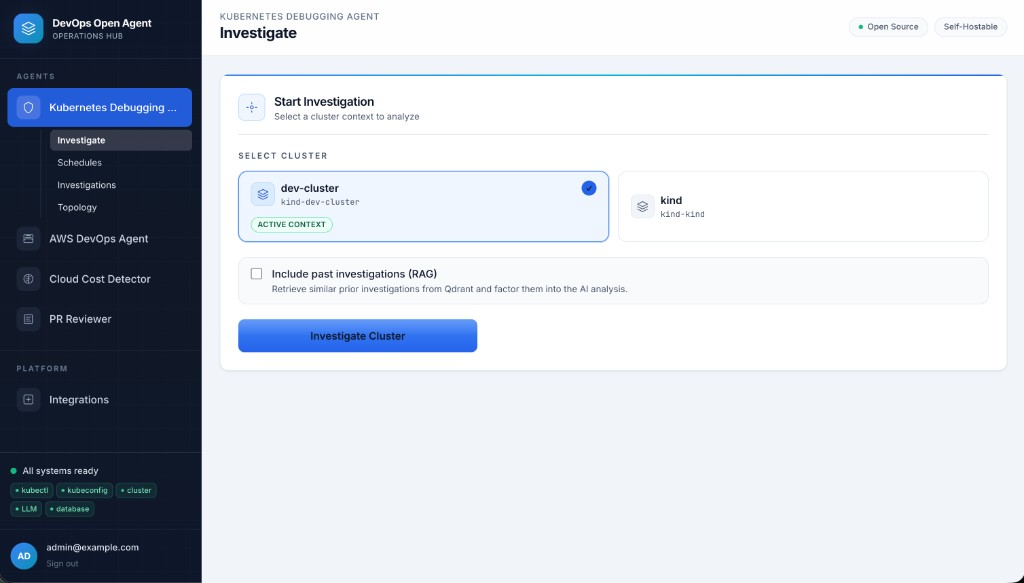
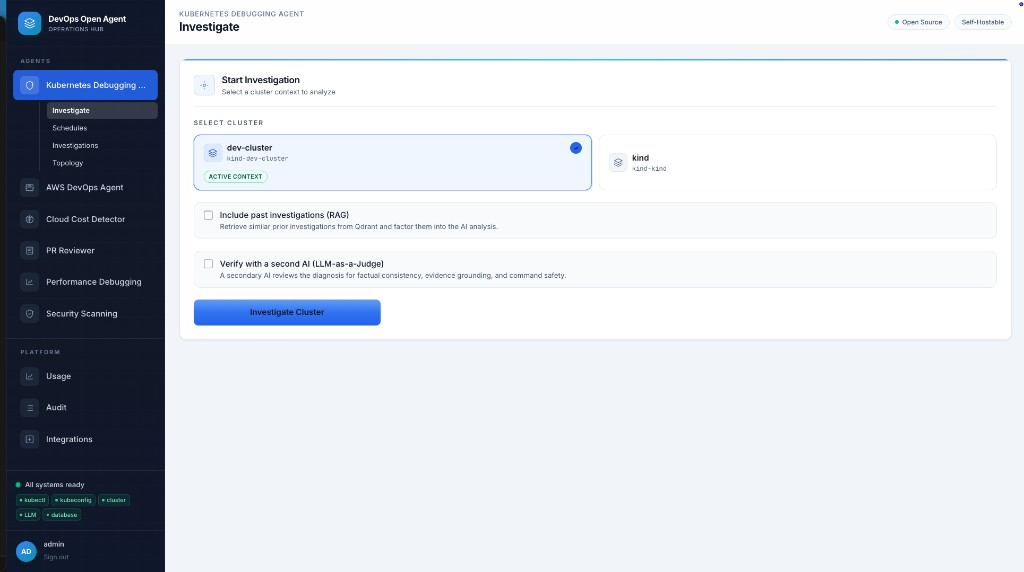
Update README home screenshots for the redesigned Operations Hub.
Refresh the hero and product-tour home images to match the current Investigate page with Usage and Audit in the sidebar.

diff --git a/README.md b/README.md
@@ -7,10 +7,10 @@
 **DevOps Open Agent** is an open-source, self-hostable, AI-powered DevOps troubleshooting platform. It helps DevOps engineers, SREs, and platform teams investigate infrastructure issues, optimize cloud costs, review pull requests, debug performance, and scan for security vulnerabilities with DevOps-focused AI guidance — reactively on demand or **proactively on a schedule** — then deliver recommendations to **Slack**, **Microsoft Teams**, and **PagerDuty** without alert fatigue.
 
 <p align="center">
-  <img src="img/devops-open-agent-v2-hero.png" alt="DevOps Open Agent v2 — Operations Hub with 6 agents, Kubernetes investigation, RAG, and LLM-as-a-Judge" width="100%" />
+  <img src="img/devops-open-agent-v2-hero.png" alt="DevOps Open Agent v2 — Operations Hub with agents, Usage, Audit, Integrations, and Kubernetes Investigate" width="100%" />
 </p>
 
-*DevOps Open Agent v2 — Operations Hub with 6 agents, integrations, and AI-powered investigations.*
+*DevOps Open Agent v2 — Operations Hub with agents, Usage / Audit / Integrations, and AI-powered Kubernetes investigations.*
 
 ## Modules
 
@@ -941,10 +941,10 @@ Screenshots from the platform across the agent modules.
 
 ### 1. DevOps Open Agent
 
-Redesigned **Operations Hub** UI with sidebar navigation across agents, integrations, and system status. Select a cluster, optionally include past investigations via **Qdrant RAG**, and start a Kubernetes investigation.
+Redesigned **Operations Hub** UI with sidebar navigation across agents, **Usage**, **Audit**, integrations, and system status. Select a cluster, optionally include past investigations via **Qdrant RAG** or enable **LLM-as-a-Judge**, and start a Kubernetes investigation.
 
 <p align="center">
-  <img src="img/product-tour/01-devops-open-agent.png" alt="DevOps Open Agent — Operations Hub with sidebar navigation and Kubernetes investigation" width="100%" />
+  <img src="img/product-tour/01-devops-open-agent.png" alt="DevOps Open Agent — Operations Hub home with Kubernetes Investigate, Usage, Audit, and Integrations" width="100%" />
 </p>
 
 ### 2. Kubernetes Investigation